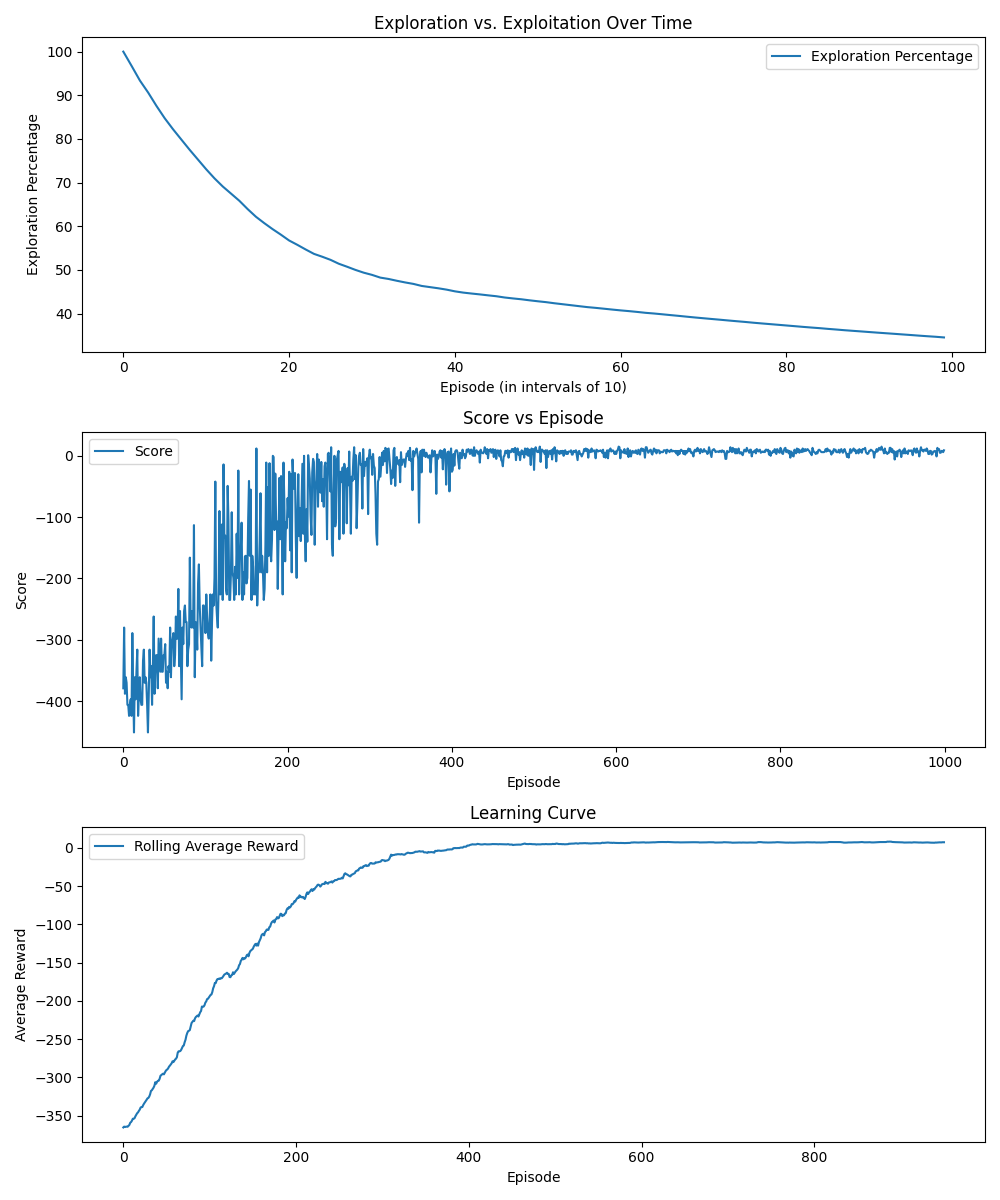
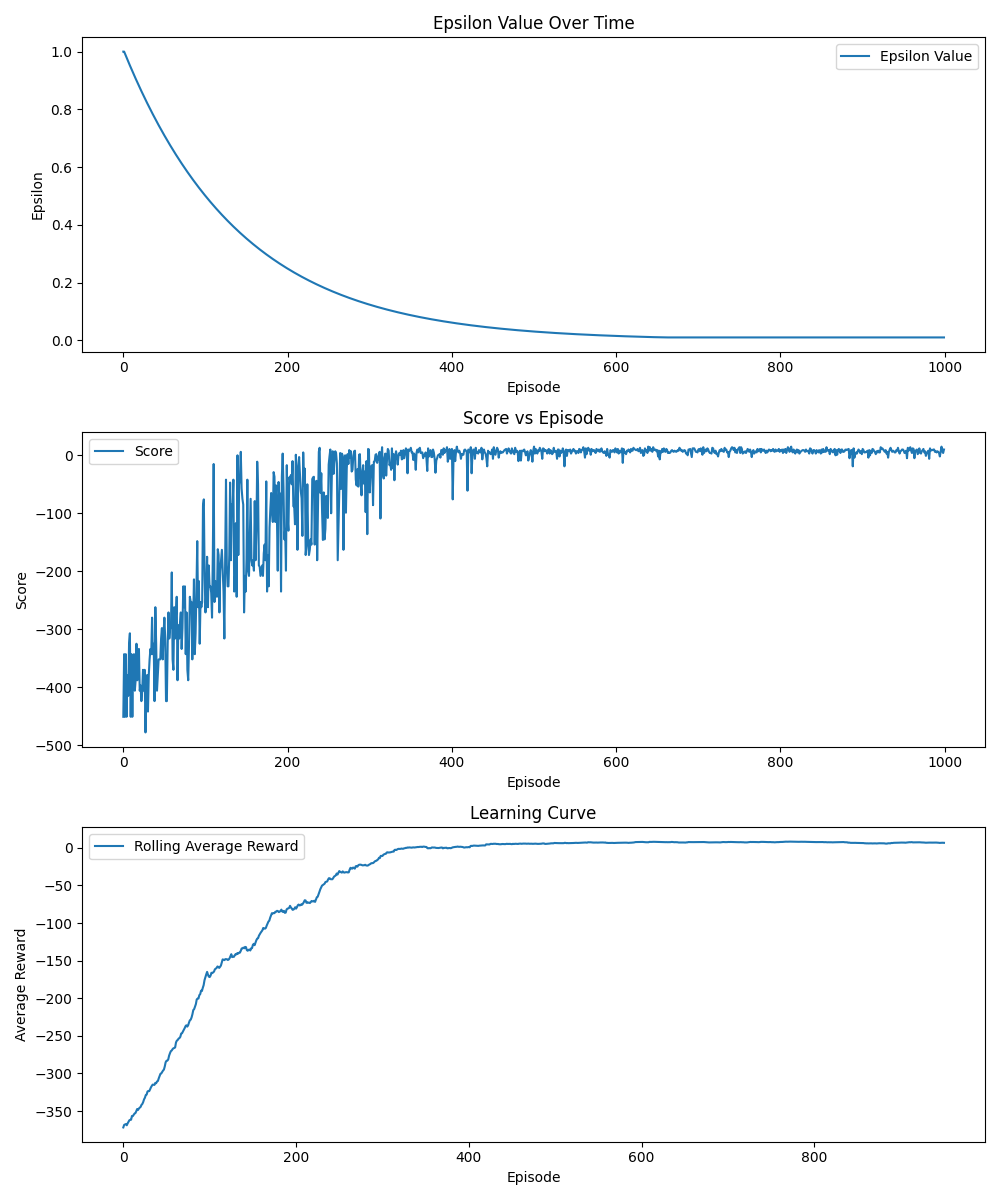
clean up dqn

diff --git a/QLearning/taxi.py b/QLearning/taxi.py
@@ -24,9 +24,8 @@ def main():
 
     # For Plots and prints
     scores = []
-    exploration_count = 0
-    exploitation_count = 0
-    exploration_percentage = []
+    epsilon_values = []
+
 
     # Training
     for episode in range(num_episodes):
@@ -40,15 +39,11 @@ def main():
             # Behavior policy
             if random.uniform(0, 1) < epsilon:
                 action = env.action_space.sample()
-
-                exploration_count += 1
             else:
                 # Array with Actions that have the highest Q-Value for the State
                 max_indices = np.where(qtable[state, :] == np.max(qtable[state, :]))[0]
                 # Select a Random Action from max_indices
                 action = np.random.choice(max_indices)
-
-                exploitation_count += 1
 
             # Take action and observe reward
             new_state, reward, terminated, truncated, info = env.step(action)
@@ -67,11 +62,7 @@ def main():
 
         # For Visualization
         scores.append(total_rewards)
-
-
-        if episode % 10 == 0:
-            exploration_pct = (exploration_count / (exploration_count + exploitation_count)) * 100
-            exploration_percentage.append(exploration_pct)
+        epsilon_values.append(epsilon)
 
         # Decrease epsilon
         epsilon = max(0.01, np.exp(-decay_rate * episode))
@@ -80,11 +71,11 @@ def main():
     # Results plotted
     _, axes = plt.subplots(nrows=3, ncols=1, figsize=(10, 12))
 
-    # Plot 1: Exploration vs. Exploitation
-    axes[0].plot(exploration_percentage, label='Exploration Percentage')
-    axes[0].set_xlabel('Episode (in intervals of 10)')
-    axes[0].set_ylabel('Exploration Percentage')
-    axes[0].set_title('Exploration vs. Exploitation Over Time')
+    # Plot 1: Epsilon Over Time
+    axes[0].plot(epsilon_values, label='Epsilon Value')
+    axes[0].set_xlabel('Episode')
+    axes[0].set_ylabel('Epsilon')
+    axes[0].set_title('Epsilon Value Over Time')
     axes[0].legend()
 
     # Plot 2: Score vs. Episode

diff --git a/DQN/trained.py b/DQN/trained.py
@@ -2,18 +2,18 @@ import gymnasium as gym
 import torch
 import numpy as np
 from dqn_agent import DQNAgent
-from model import QNetwork
 
-# Explicitly set device to CPU
-device = torch.device("cpu")
+device = torch.device("cuda" if torch.cuda.is_available() else "cpu")
 
-env = gym.make("MountainCar-v0", render_mode="human")
+env = gym.make("Acrobot-v1", render_mode="human")
+# env = gym.make("MountainCar-v0", render_mode="human")
+
 
 # Define settings
 learning_rate = 0.01
 batch_size = 64
 update_every = 10
-network_size = 64
+network_size = 128
 eps_start = 1.0
 eps_end = 0.01
 eps_decay = 0.995
@@ -26,7 +26,8 @@ seed = 0
 agent = DQNAgent(state_size=state_size, action_size=action_size, gamma=gamma, seed=seed, eps_start=eps_start, eps_end=eps_end, eps_decay=eps_decay, update_every=update_every, size=network_size, lr=learning_rate, batch_size=batch_size)
 
 # Load the trained model
-agent.qnetwork_local.load_state_dict(torch.load('checkpoints/mCar_checkpoint.pth', map_location=device))
+agent.qnetwork_local.load_state_dict(torch.load('weights/dqn_checkpoint.pth', map_location=device))
+# agent.qnetwork_local.load_state_dict(torch.load('weights/mCar_checkpoint.pth', map_location=device))
 
 # Set the agent to evaluation mode
 agent.qnetwork_local.eval()

diff --git a/DQN/model.py b/DQN/model.py
@@ -1,9 +1,7 @@
 import torch
 import torch.nn as nn
-import torch.optim as optim
 import torch.nn.functional as F
-import numpy as np
-from collections import deque
+
 
 class QNetwork(nn.Module):
     def __init__(self, state_size, action_size, size, seed):
